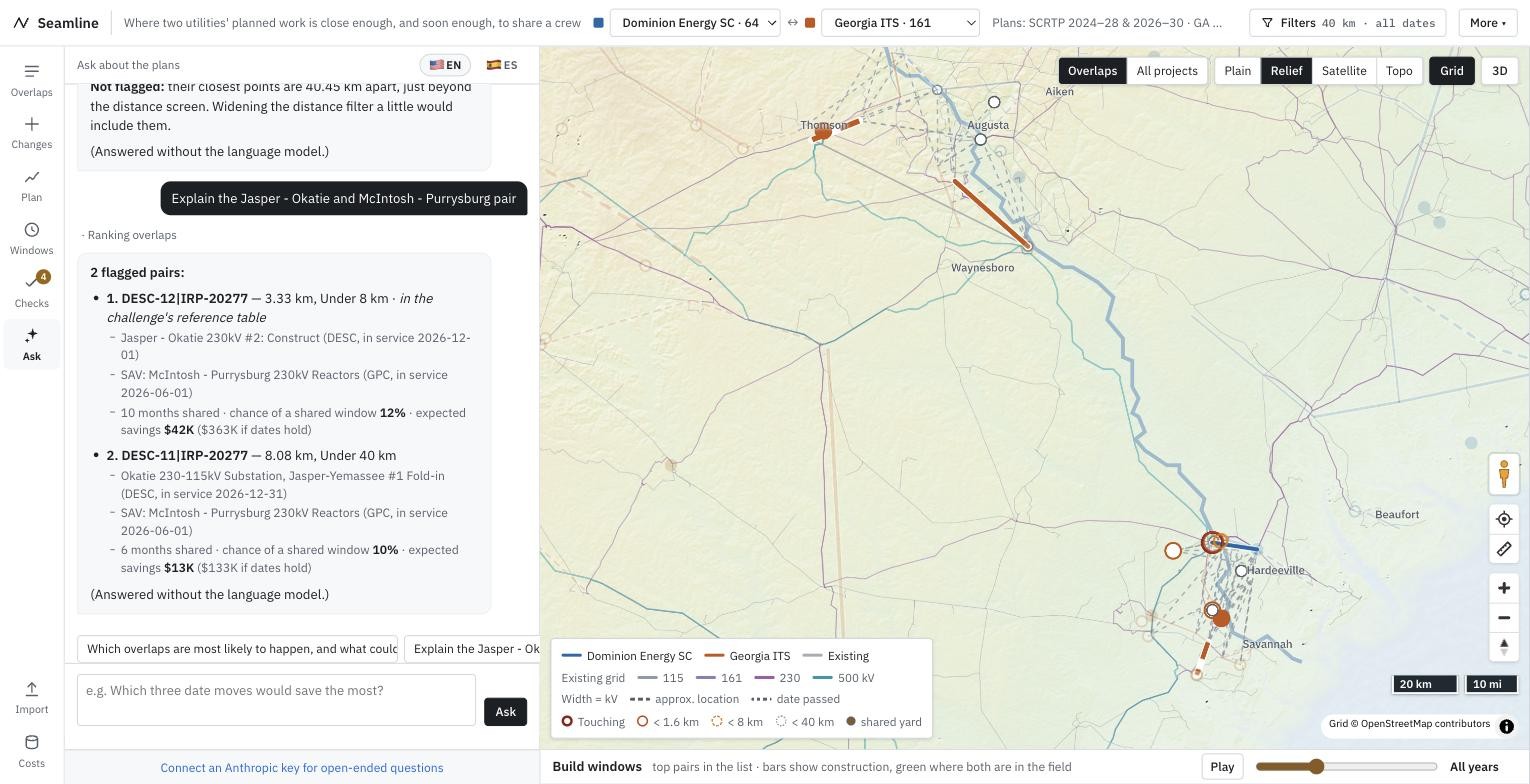
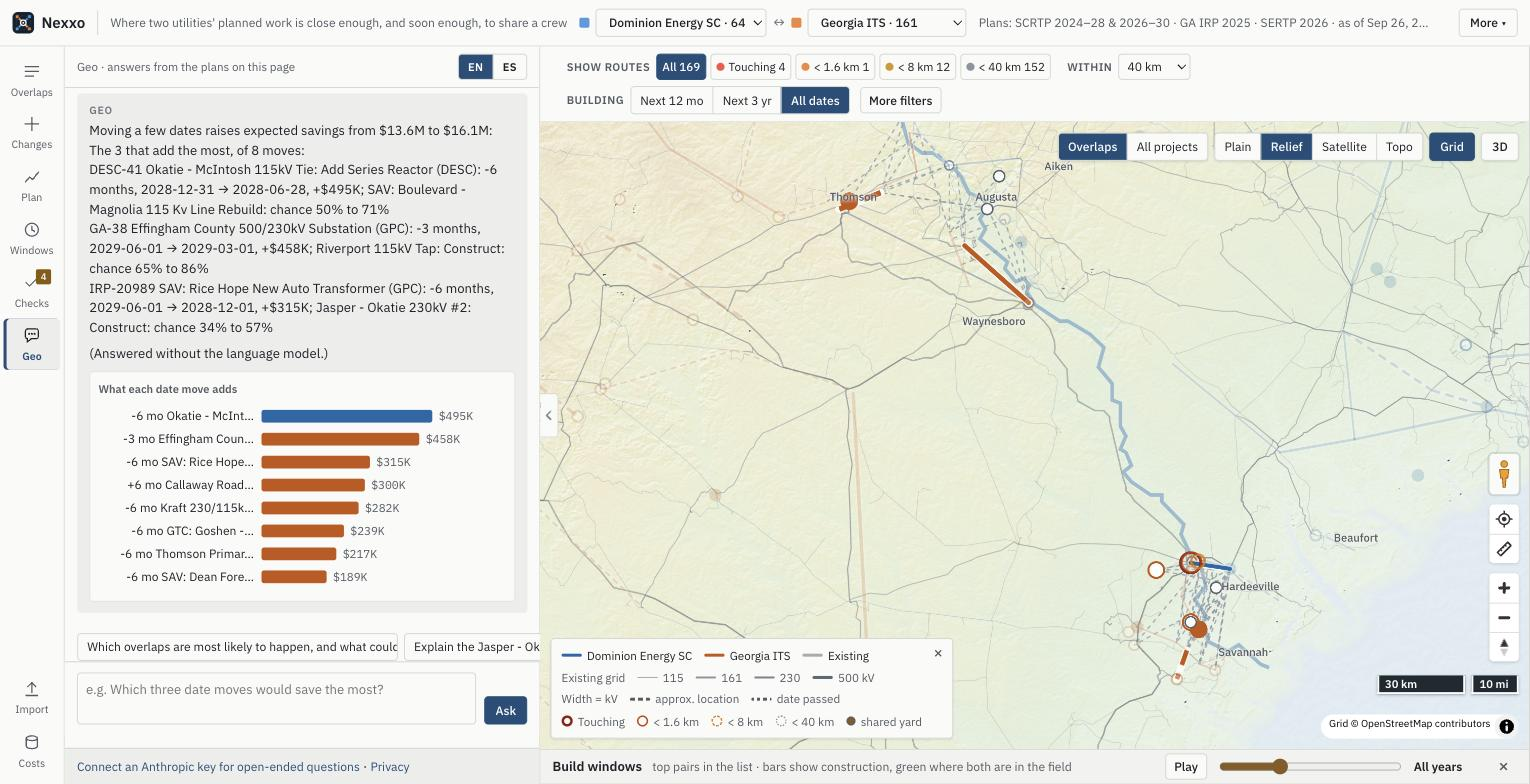
Open on all distance bands; refresh screenshots and docs for the current UI
- Every comparison opens on all bands, so the first screen shows 169 overlaps and $13.6M,
  as the demo script says.
- README: all seven screenshots retaken from the current build; the text now matches it
  (opens on all bands, grey existing grid, Plan tab, Costs in the rail, About/terms/privacy).
- DEMO.md: grey grid, mouse-look in the 3D walk, and a line on the item-by-item cost estimate
  (the challenge's bonus), including the 11 acres of shared right-of-way for pair #6.

diff --git a/index.html b/index.html
@@ -4822,12 +4822,8 @@ function compute() {
     RESULT.pairs.forEach(x => { x.risk = risk(x); });
     // one yard serves sites within a day's drive, so clusters always use 40 km whatever the distance filter says
     CLUSTERS = Engine.clusters(RESULT.pairs, EXIST.filter(e => !e.backdrop), 40);
-    // The map opens on the closest distance band that has any pairs, so it starts uncluttered; each band chip
-    // pressed after that adds its routes.
-    if (!state.tiersSet && RESULT.pairs.length) {
-      const k = [0, 1, 2, 3].find(i => RESULT.pairs.some(x => x.tier === i));
-      state.tiers = new Set(k == null ? [0, 1, 2, 3, 4] : [k]); state.tiersSet = true;
-    }
+    // Every comparison opens on all distance bands, so the headline numbers and the ranked list are the whole result.
+    if (!state.tiersSet) { state.tiers = new Set([0, 1, 2, 3, 4]); state.tiersSet = true; }
   }
   VIEW = RESULT.pairs.filter(x => state.tiers.has(Math.min(x.tier, 4)) &&
     (state.past || (!isPast(x.p) && !isPast(x.q))) && inHorizon(x.p) && inHorizon(x.q) &&

diff --git a/src/app.js b/src/app.js
@@ -99,12 +99,8 @@ function compute() {
     RESULT.pairs.forEach(x => { x.risk = risk(x); });
     // one yard serves sites within a day's drive, so clusters always use 40 km whatever the distance filter says
     CLUSTERS = Engine.clusters(RESULT.pairs, EXIST.filter(e => !e.backdrop), 40);
-    // The map opens on the closest distance band that has any pairs, so it starts uncluttered; each band chip
-    // pressed after that adds its routes.
-    if (!state.tiersSet && RESULT.pairs.length) {
-      const k = [0, 1, 2, 3].find(i => RESULT.pairs.some(x => x.tier === i));
-      state.tiers = new Set(k == null ? [0, 1, 2, 3, 4] : [k]); state.tiersSet = true;
-    }
+    // Every comparison opens on all distance bands, so the headline numbers and the ranked list are the whole result.
+    if (!state.tiersSet) { state.tiers = new Set([0, 1, 2, 3, 4]); state.tiersSet = true; }
   }
   VIEW = RESULT.pairs.filter(x => state.tiers.has(Math.min(x.tier, 4)) &&
     (state.past || (!isPast(x.p) && !isPast(x.q))) && inHorizon(x.p) && inHorizon(x.q) &&

diff --git a/README.md b/README.md
@@ -28,16 +28,17 @@ The Plain map and everything except the imagery, the 3D terrain and open-ended a
 
 ## The screen
 
-One screen, laid out like the coordination tools planners already use (Esri Capital Project Coordination, one.network): a map, the ranked overlaps beside it, and the build windows underneath, all linked. A labeled rail on the left switches the panel between Overlaps (which opens with four headline numbers: overlaps, expected savings, the joint-schedule gain and checks to review, plus distance chips that choose which routes the map draws: it opens on the closest band, and each chip pressed adds its routes), Changes, Plan, Checks and Geo, and unfolds the build-windows chart under the map; Import and Unit costs sit at the bottom of the rail. A filter bar over the map keeps the distance chips, the distance limit and the build period in view, with More filters for the rest; Share and Export CSV sit under More. A tab on the side panel's edge hides it, leaving the rail and the map, and double-clicking a route brings it back on that route's pair.
+One screen, laid out like the coordination tools planners already use (Esri Capital Project Coordination, one.network): a map, the ranked overlaps beside it, and the build windows underneath, all linked. A labeled rail on the left switches the panel between Overlaps (which opens with four headline numbers: overlaps, expected savings, the joint-schedule gain and checks to review, plus distance chips that choose which routes the map and the list show; it opens on all of them), Changes, Plan (the schedule optimizer), Checks and Geo, and unfolds the build-windows chart under the map; Import and Costs sit at the bottom of the rail. A filter bar over the map keeps the distance chips, the distance limit and the build period in view, with More filters for the rest; Share, Export CSV, Import, Unit costs and About, terms and privacy sit under More. A tab on the side panel's edge hides it, leaving the rail and the map, and double-clicking a route brings it back on that route's pair.
 
-- **Map** (MapLibre GL): Plain (offline), Relief (colour by elevation under a hillshade, drawn from the elevation tiles), Satellite and Topo basemaps. **3D** tilts the map over real terrain (Terrarium elevation tiles from USGS 3DEP data, exaggerated 3× since the Southeast is low), adds hillshading and a sky, and raises a tower every ~450 m along each planned line. **Grid** draws today's transmission lines (10,092 lines of 115 kV and up in Georgia and South Carolina, from OpenStreetMap) underneath, coloured by voltage. Line width is voltage, dashed is an approximate location, faded is a date that has passed, rings mark how close a pair is, dots mark shared staging yards. Bottom-right controls work like a web map: recenter, a click-to-measure ruler (each leg and the total in miles and km), zoom and compass, and scale bars in miles and km. Each listed pair's link is labeled with its gap (the open pair always, all of them from zoom 9).
+- **Map** (MapLibre GL): Plain (offline), Relief (colour by elevation under a hillshade, drawn from the elevation tiles), Satellite and Topo basemaps. **3D** tilts the map over real terrain (Terrarium elevation tiles from USGS 3DEP data, exaggerated 3× since the Southeast is low), adds hillshading and a sky, and raises a tower every ~450 m along each planned line. **Grid** draws today's transmission lines (10,092 lines of 115 kV and up in Georgia and South Carolina, from OpenStreetMap) underneath, in one grey family that gets darker and wider as the voltage rises, so the only strong colours on the map are the two utilities' plans and the tier rings. Line width is voltage, dashed is an approximate location, faded is a date that has passed, rings mark how close a pair is, dots mark shared staging yards. Bottom-right controls work like a web map: recenter, a click-to-measure ruler (each leg and the total in miles and km), zoom and compass, and scale bars in miles and km. Each listed pair's link is labeled with its gap (the open pair always, all of them from zoom 9).
 - **Drop-in walker**: drag the orange figure onto any project, like Google Maps' Street View figure. The 3D illustration of that project's most valuable pair opens at ground level where it landed; walk with W A S D or the arrow keys, move the mouse to look around (click the view first; Esc frees the mouse), hold Shift to run, or switch back to the overview, where dragging flies over the scene like a drone, right-drag turns and the wheel climbs or descends. The walker follows the ground and slides around structures, trees, water and bluffs too steep to climb.
 - **Overlaps**: ranked by expected savings (or chance, or distance). Each row shows the distance tier, the chance of a shared window with what the plan says, and the expected savings next to the savings if the dates held. Filters for distance tier, build period (next 12 months, next 3 years), dates already passed and a text search; shared-yard groups sit above the list; Export CSV downloads it.
 - **Pair panel**: both projects side by side (work, window, plan drift, cost, how each end point was located, source page), the chance and why, each item they can share with its saving and math, the best shared yard, a schedule what-if, a coordination status saved on the device, a printable one-page brief (its locator map is an Esri topographic sheet fetched at twice print resolution, with both routes, the closest points, a legend, a km and mile scale bar and a north arrow, over plain state outlines that show when the tiles can't load), and a three.js 3D illustration of the pair.
 - **Changes**: how far each utility's dates moved between its last two plans, and which shared windows the latest updates opened or closed, and why.
-- **Optimize**: the date moves that most raise expected savings, with limits you set, shown on the map and printable as a joint schedule proposal.
+- **Plan** (the optimizer): the date moves that most raise expected savings, with limits you set, shown on the map and printable as a joint schedule proposal.
 - **Checks**: the pipeline's validation report, each check with the records it caught, downloadable as JSON.
 - **Geo** (in the rail): the assistant, which greets you with "Hey, I'm Geo", for questions like "which overlaps near Augusta are most likely to happen?", "why isn't DESC-11 paired with IRP-20277?" or "¿qué cambió en el plan de DESC?". It runs Claude (`claude-opus-5`, with server-side fallbacks) through the Anthropic TypeScript SDK in the browser, with fourteen tools over Nexxo's own data: search and rank projects, list and explain overlaps, compare two projects, say why a pair is *not* flagged, plan changes, the schedule optimizer and the data checks, plus four that act on the page (show something on the map, open a pair's coordination brief, the joint schedule proposal or a report over the whole comparison). `src/agent.js` runs the loop; the tools are in `src/app.js`. The site has no server, so each viewer pastes their own Anthropic API key; it stays in that browser and is sent only to Anthropic's API. **Without a key**, or when the API can't be reached, `src/agent-offline.js` routes the common questions (every capability the panel lists) straight to the same tools by pattern and says so in the answer; anything it can't place with confidence asks for a key instead of guessing. Pairs just past the distance screen are listed under the ranking, kept out of every total, so the 40 km line reads as a chosen threshold rather than a cliff.
+- **About, terms and privacy** (under More): data sources and licences, what the estimates are and are not, what the page stores in the browser and what it sends where.
 - **Share** copies a link to exactly what's on screen: utilities, filters, tab, selected pair, basemap, 3D and camera. Planners can paste it into an email and the other side opens the same view.
 - **Play** steps the map month by month: projects light up while under construction and pairs building at the same time spark. **Unit costs** edits every number behind the savings; **Import plans** loads another utility.
 - **3D illustration** (from the pair panel, or the walker): Its ground is a cut-out terrain block with earthen sides, shaped from the same elevation tiles; heights are stretched at most 5× so the flat river country reads without inventing cliffs, and the footer gives the real range in meters and the factor. The gap is marked the way a survey crew would: a red-and-white range pole with flagging tape on each closest point, a painted line on the ground between them with tick marks and a marker post at every even step (100 m, 500 m, 1 km…), and a label with the gap in km and miles. The line, the posts and each line's cleared right-of-way (about 30 m at 115 kV, 46 m at 230 kV, 61 m at 500 kV, edged in the utility's color) are true to scale; towers, poles and vehicles are drawn larger so they can be seen. Offline it falls back to an illustrative ground. Plants are modeled on a combined-cycle station (inlet filter houses, gas turbines, HRSGs with exhaust stacks, a steam turbine hall, a row of fan-cell cooling towers venting plumes, tanks, a pipe rack and the plant's own switchyard). Substations have lattice gantries, transformers with radiators, conservators and bushings, breakers, disconnect switches and a control house. Yards and crews carry real-proportion equipment: pickups, a flatbed with a cable reel, bucket trucks, an all-terrain crane and an excavator, each parked by its measured footprint so none overlap. **Quality** has two looks: *Detailed* (default, stylized and fast) and *Ultra-realistic* (texture maps on siding, concrete and gravel, galvanized steel and bare aluminum wires, loblolly pines, denser ground cover, finer terrain and stronger ambient occlusion).
@@ -48,9 +49,9 @@ One screen, laid out like the coordination tools planners already use (Esri Capi
 
 ![The Changes tab: how each utility's dates moved, and the shared windows the latest plans opened](docs/screenshots/changes.jpg)
 
-![The Optimize tab: date moves that raise expected savings](docs/screenshots/optimize.jpg)
+![The Plan tab: date moves that raise expected savings, shown on the map](docs/screenshots/optimize.jpg)
 
-![Geo with no API key: why a pair is not flagged, and one pair explained](docs/screenshots/ask.jpg)
+![Geo with no API key: the three date moves that save the most, with a chart](docs/screenshots/ask.jpg)
 
 ## How overlap is defined
 

diff --git a/docs/DEMO.md b/docs/DEMO.md
@@ -6,7 +6,7 @@ Before you start: serve the app (`npm start`, then http://localhost:8000, or the
 
 > Utilities plan years ahead, each on its own. DESC and Georgia build right across the Savannah River from each other, and nobody lines up their crews, yards or outages. FERC Order 1920 exists because of this. Nexxo finds where their plans meet, and more importantly, which of those meetings will actually happen.
 
-*On screen: the map. The grey and coloured lines underneath are today's grid, 10,092 real lines from OpenStreetMap; the bold ones are the plans.*
+*On screen: the map. The thin grey lines underneath are today's grid, 10,092 real lines from OpenStreetMap; the bold ones are the plans.*
 
 ## 0:20 – It reads the real plans (25 s)
 
@@ -26,13 +26,17 @@ Before you start: serve the app (`npm start`, then http://localhost:8000, or the
 
 > So Nexxo turns that history into a chance. This pair is six months apart on paper, but there's a 68% chance both crews are in the field together, because DESC usually runs late. Pairs are ranked by expected savings, not by the plan's optimism.
 
+*Scroll to **What they can share**.*
+
+> And every pair is priced item by item, with the math on screen: one laydown yard instead of two, combined deliveries, one crew mobilization. For pair #6, 0.6 km apart, that includes 11 acres of right-of-way they don't have to buy twice. Every unit cost is editable.
+
 ## 1:25 – Walk the site (35 s)
 
 *With the pair still open, drag the orange figure from the right edge of the map and drop it on the blue Jasper–Okatie line. (Keep the pair open: from the full-region view the lines are too thin to hit and the figure lands on whatever is nearest.)*
 
 > Like Street View: drop the walker on any project and you're standing on the site.
 
-*In the 3D view hold **W** to walk toward the towers, drag to look at the substation and the shared yard.*
+*In the 3D view click once, hold **W** to walk toward the towers and move the mouse to look at the plant and the shared yard (Esc frees the mouse).*
 
 > Towers, the other utility's work, the shared yard where one crew could stage both jobs. Distances on the ground are to scale.
 
